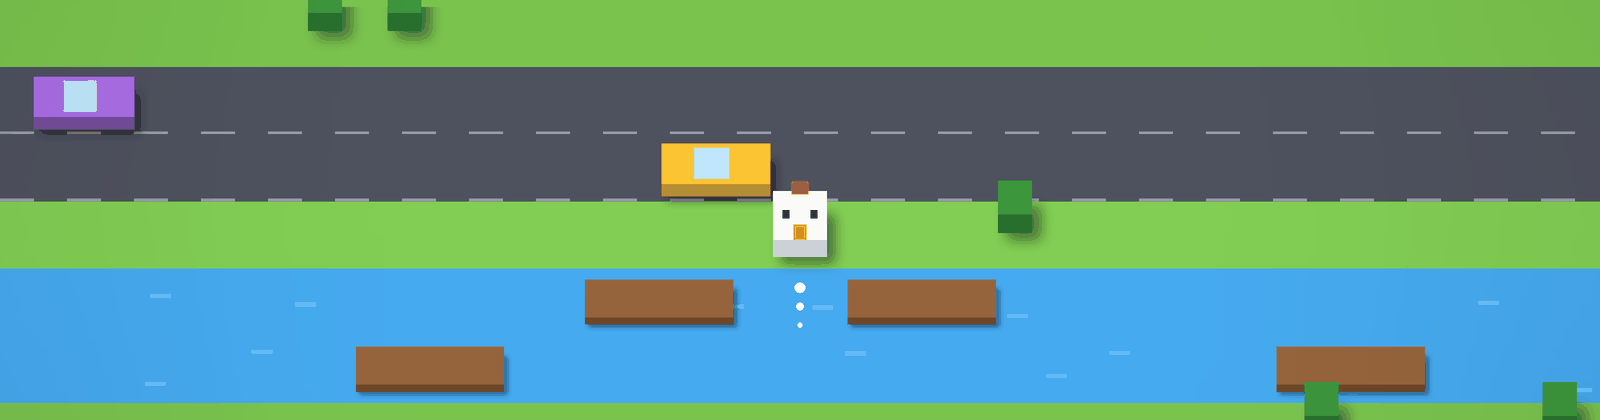
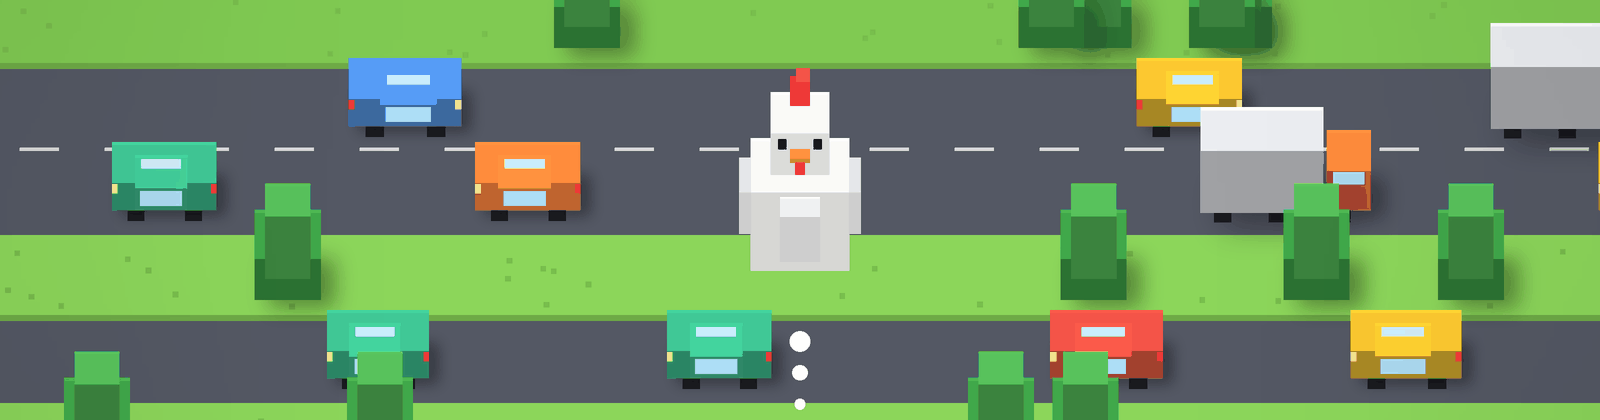
Lobby: drop the Herd card, new Crossy Road art
Owen: forget Herd. Crossy Road redrawn as a voxel chicken mid-hop across
traffic, rivers and logs.

diff --git a/public/v2.html b/public/v2.html
@@ -3275,17 +3275,15 @@ const GAMES=[
     broken image; drop the flag when public/img/games/<id>.png lands. */
  {id:'stumble',name:'Stumble Guys',c:['#191d26','#7fb0e0'],type:'p',soon:1,
   d:'A crowd, an obstacle course, and physics that are on nobody’s side.'},
- /* Five more placeholders (Owen, 2026-10-26), locked like the ones above, with
+ /* Four more placeholders (Owen, 2026-10-26), locked like the ones above, with
     art drawn in code. 'omgshoot2' is a new top-down shooter, not 'omgshooter'
-    (that id is Awesome Tanks). Herd is a working title for a crowd game. */
+    (that id is Awesome Tanks). */
  {id:'pool8',name:'8 Ball Pool',c:['#16241c','#3fae6f'],type:'m',soon:1,duel:1,
   d:'Break, call your pocket, and sink the eight before they do.'},
  {id:'omgshoot2',name:'OMG Shooter',c:['#1d2016','#e8a040'],type:'p',soon:1,
   d:'Little guys, big guns, and everybody shooting everybody.'},
  {id:'airhockey',name:'Air Hockey',c:['#141c2c','#4ea6f0'],type:'m',soon:1,duel:1,
   d:'One puck, two mallets, and a goal at each end.'},
- {id:'herd',name:'Herd',c:['#1e1c22','#ff5678'],type:'p',soon:1,
-  d:'Gather loose people into your crowd and swallow smaller crowds whole.'},
  {id:'crossy',name:'Crossy Road',c:['#16201a','#82ce54'],type:'p',soon:1,
   d:'Hop across roads and rivers, and do not stop for long.'},
 ];

diff --git a/test/v2route.test.js b/test/v2route.test.js
@@ -2172,7 +2172,7 @@ test('every playable game is listed before any locked or unreleased one', () => 
   assert.deepStrictEqual(run(LOCK), [
     'snake', 'paper', 'agar', 'chomp', 'knockout', 'battleship',
     'omgshooter', 'tanks', 'rooftop', 'headsoccer', 'swim', 'stumble',
-    'pool8', 'omgshoot2', 'airhockey', 'herd', 'crossy',
+    'pool8', 'omgshoot2', 'airhockey', 'crossy',
   ], 'playable in their own order, then locked and unreleased in theirs');
 
   // Unlocked, both go straight back to their own place among the playable ones.
